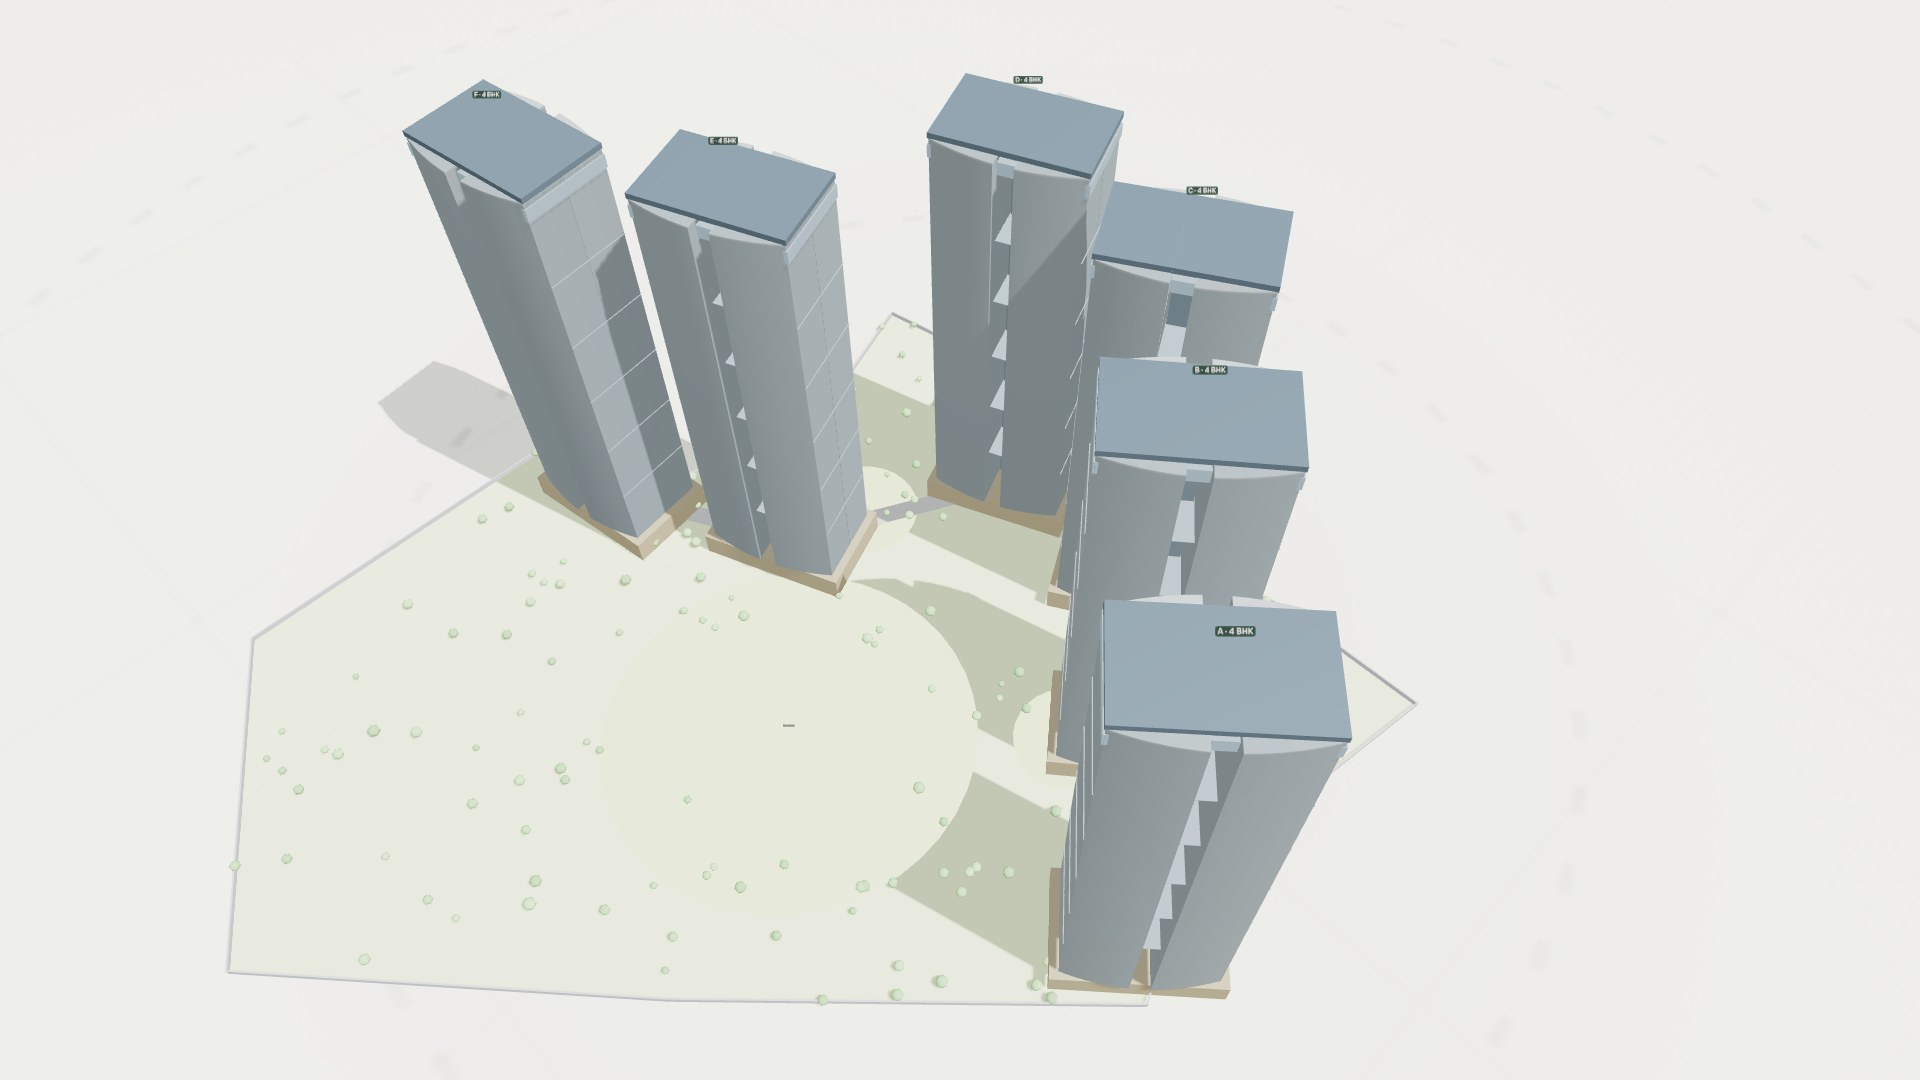
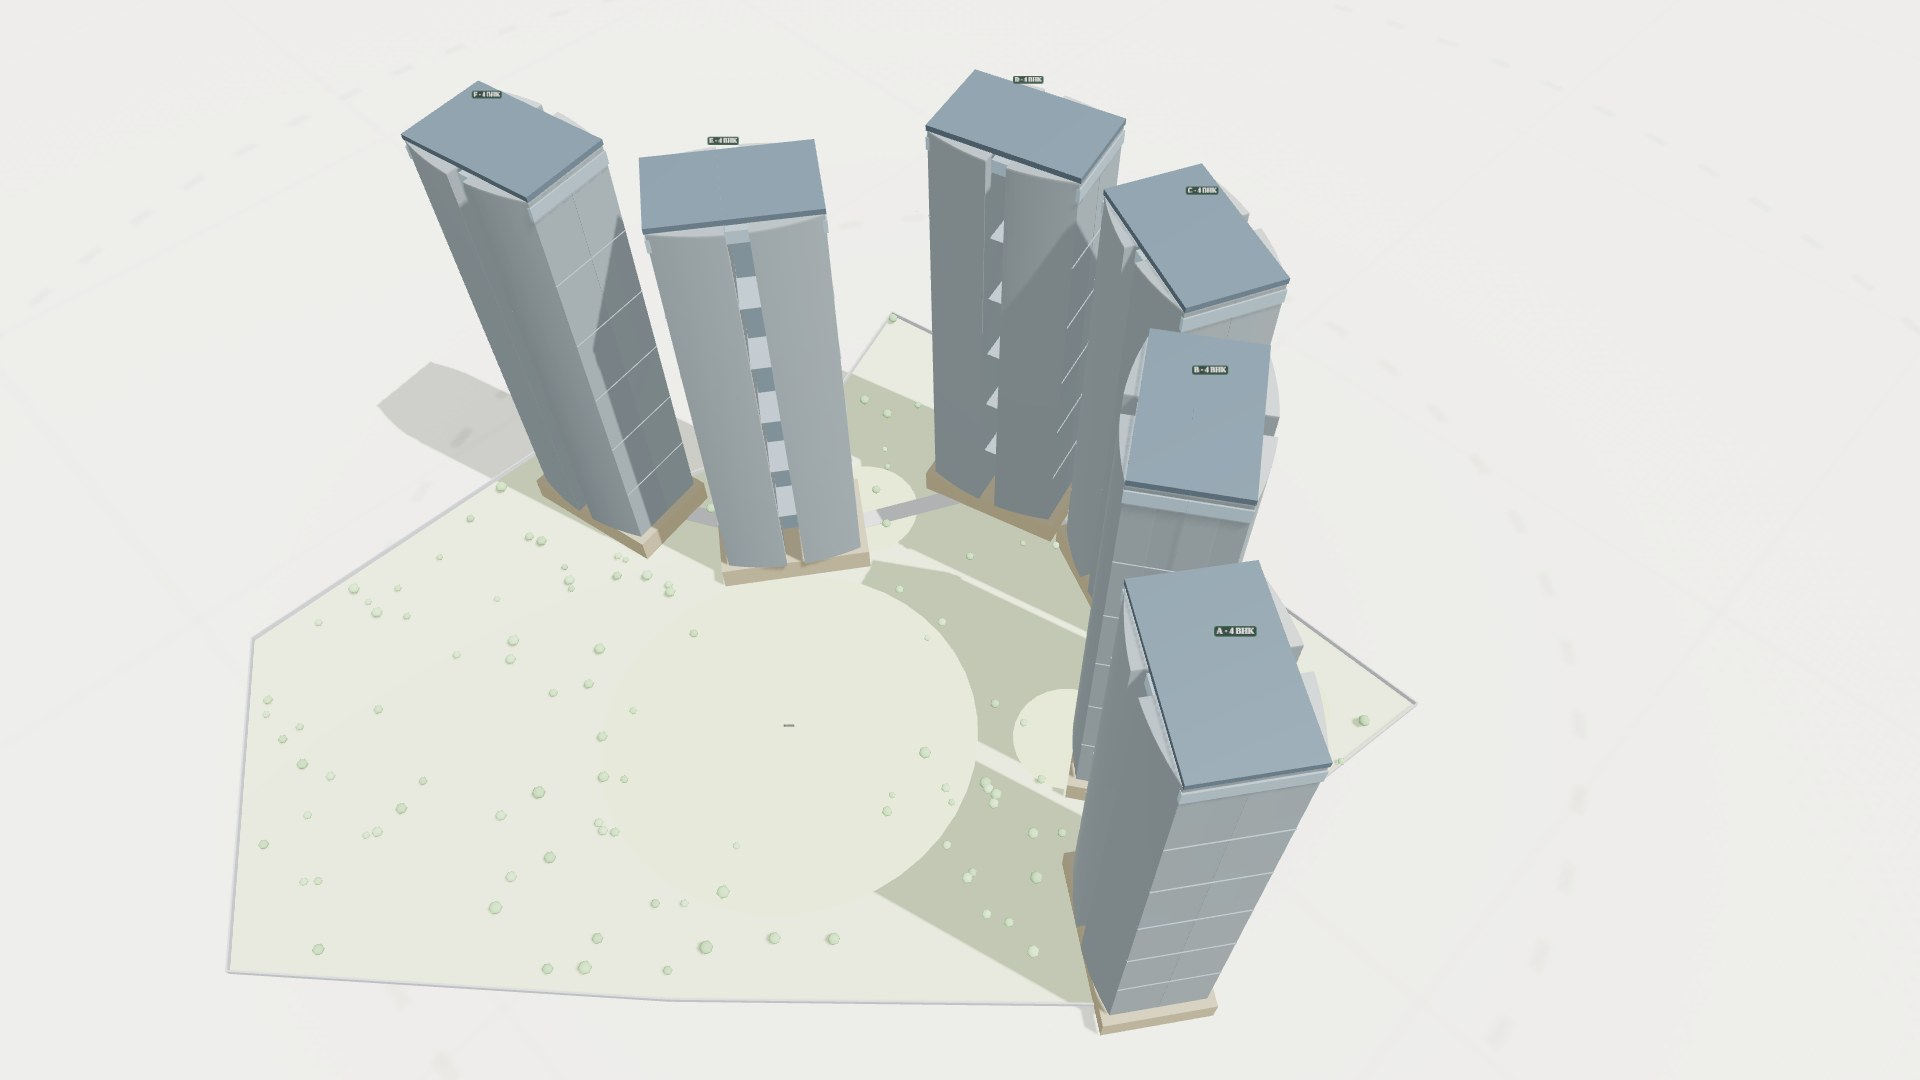
DLF Privana North: correct per-tower rotations (measured from siteplan)
The tower rotations were by-eye estimates and A/B/C/E were visibly
mis-oriented against the siteplan footprints. Replace them with rotations
measured directly from the plan:

- For each tower, isolate the pure-white footprint in a georeferenced crop,
  fit a min-area bounding rectangle (robust to the near-square plate), take
  the long-axis bearing, and convert to the engine rotation (long-axis
  bearing = -rot). Consistent 1.73 aspect across all six confirms the fit.
- New rots: F 0.191, E 0.948, D 0.282, C -0.421, B -0.989, A -0.625
  (E/C/B/A were off by 30-90 deg). Verified by overlaying the boxes back
  on the siteplan — all six footprints now match.

Correct orientations change the sun/vastu profile for the better: some
lines are now SE-facing (all-day winter sun at this latitude). The #1
composite pick is Tower B - Line 03, SE, 8.2 h/day winter, grade A.
Refresh the teaser + registry note and regenerate the preview. 24 flats
score cleanly (42-80), node --check passes.

Claude-Session: https://claude.ai/code/session_01K59rw81Ray6TvpXZwVUHsn

diff --git a/public/tower-intel/dlf-privana-north.html b/public/tower-intel/dlf-privana-north.html
@@ -678,12 +678,12 @@ const LAKE={x:10,z:-85};             // central landscaped greens ("Site for Fut
    [inf] positions/rotations traced from the official site plan (explicitly NOT to scale;
    18-acre plot) — the render loop refines spacing & each tower's rotation. rot in RAD. */
 const towers=[
- {id:'F',x: 150.4,z:-60.2,rot:0.14,hw:28,hd:17,core:4,cfg:'4 BHK',q:{'101':'4 BHK','102':'4 BHK','103':'4 BHK','104':'4 BHK'}},
- {id:'E',x:  79.5,z:-22.4,rot:0.38,hw:28,hd:17,core:4,cfg:'4 BHK',q:{'101':'4 BHK','102':'4 BHK','103':'4 BHK','104':'4 BHK'}},
- {id:'D',x:  34.1,z: 65.5,rot:0.40,hw:28,hd:17,core:4,cfg:'4 BHK',q:{'101':'4 BHK','102':'4 BHK','103':'4 BHK','104':'4 BHK'}},
- {id:'C',x: -39.0,z: 62.2,rot:0.52,hw:28,hd:17,core:4,cfg:'4 BHK',q:{'101':'4 BHK','102':'4 BHK','103':'4 BHK','104':'4 BHK'}},
- {id:'B',x: -85.4,z:  7.2,rot:0.68,hw:28,hd:17,core:4,cfg:'4 BHK',q:{'101':'4 BHK','102':'4 BHK','103':'4 BHK','104':'4 BHK'}},
- {id:'A',x:-139.6,z:-52.3,rot:0.72,hw:28,hd:17,core:4,cfg:'4 BHK',q:{'101':'4 BHK','102':'4 BHK','103':'4 BHK','104':'4 BHK'}},
+ {id:'F',x: 150.4,z:-60.2,rot:0.191,hw:28,hd:17,core:4,cfg:'4 BHK',q:{'101':'4 BHK','102':'4 BHK','103':'4 BHK','104':'4 BHK'}},
+ {id:'E',x:  79.5,z:-22.4,rot:0.948,hw:28,hd:17,core:4,cfg:'4 BHK',q:{'101':'4 BHK','102':'4 BHK','103':'4 BHK','104':'4 BHK'}},
+ {id:'D',x:  34.1,z: 65.5,rot:0.282,hw:28,hd:17,core:4,cfg:'4 BHK',q:{'101':'4 BHK','102':'4 BHK','103':'4 BHK','104':'4 BHK'}},
+ {id:'C',x: -39.0,z: 62.2,rot:-0.421,hw:28,hd:17,core:4,cfg:'4 BHK',q:{'101':'4 BHK','102':'4 BHK','103':'4 BHK','104':'4 BHK'}},
+ {id:'B',x: -85.4,z:  7.2,rot:-0.989,hw:28,hd:17,core:4,cfg:'4 BHK',q:{'101':'4 BHK','102':'4 BHK','103':'4 BHK','104':'4 BHK'}},
+ {id:'A',x:-139.6,z:-52.3,rot:-0.625,hw:28,hd:17,core:4,cfg:'4 BHK',q:{'101':'4 BHK','102':'4 BHK','103':'4 BHK','104':'4 BHK'}},
 ];
 const CONFIGS={
  /* 4 BHK + servant — the typical-level plate (4 per floor, quad core). Areas are the

diff --git a/src/lib/projects.ts b/src/lib/projects.ts
@@ -591,8 +591,9 @@ export const TOWER_INTEL: Record<string, TowerIntelMeta> = {
   // model's metric frame); the ground is the real parcel polygon traced from the
   // official siteplan and georeferenced to those coords. Interior 3D + 2D floor-
   // plan layer is built from the sanctioned 4 BHK + SR plan (traced walls +
-  // textures). The arc has no south-facing decks — units face E/NE/SW/W, so winter
-  // sun is morning/afternoon (~4 h), not all-day. Advisor leads with the 3D + sun sim.
+  // textures). Each tower's rotation is measured from the siteplan footprint
+  // (min-area-rect detection); units face E/NE/NW/SE/SW/W around the arc, and the
+  // SE-facing lines catch all-day winter sun (~8 h, grade A). Advisor leads with 3D + sun sim.
   "DLF Privana North": {
     file: "tower-intel/dlf-privana-north.html",
     preview: "tower-intel/dlf-privana-north-preview.jpg",
@@ -601,13 +602,13 @@ export const TOWER_INTEL: Record<string, TowerIntelMeta> = {
     totalUnits: "1,200+", // 6 towers × 50 floors × 4 lines
     // Mirrors the advisor's own #1 composite pick, so the teaser stays honest.
     sample: {
-      ref: "Tower F · Line 03",
-      type: "4 BHK + servant · east-facing",
-      sun: "4.4 h/day (winter)",
-      sunPct: 51,
+      ref: "Tower B · Line 03",
+      type: "4 BHK + servant · south-east facing",
+      sun: "8.2 h/day (winter)",
+      sunPct: 92,
       ventilation: "Quad-core point tower · 2-side airflow",
-      vastu: "East living & deck · morning winter sun",
-      idealFor: "Morning-sun & vastu-first buyers (4 BHK)",
+      vastu: "SE living & deck · all-day winter sun",
+      idealFor: "Sun-first buyers & large families (4 BHK)",
     },
   },
 };
